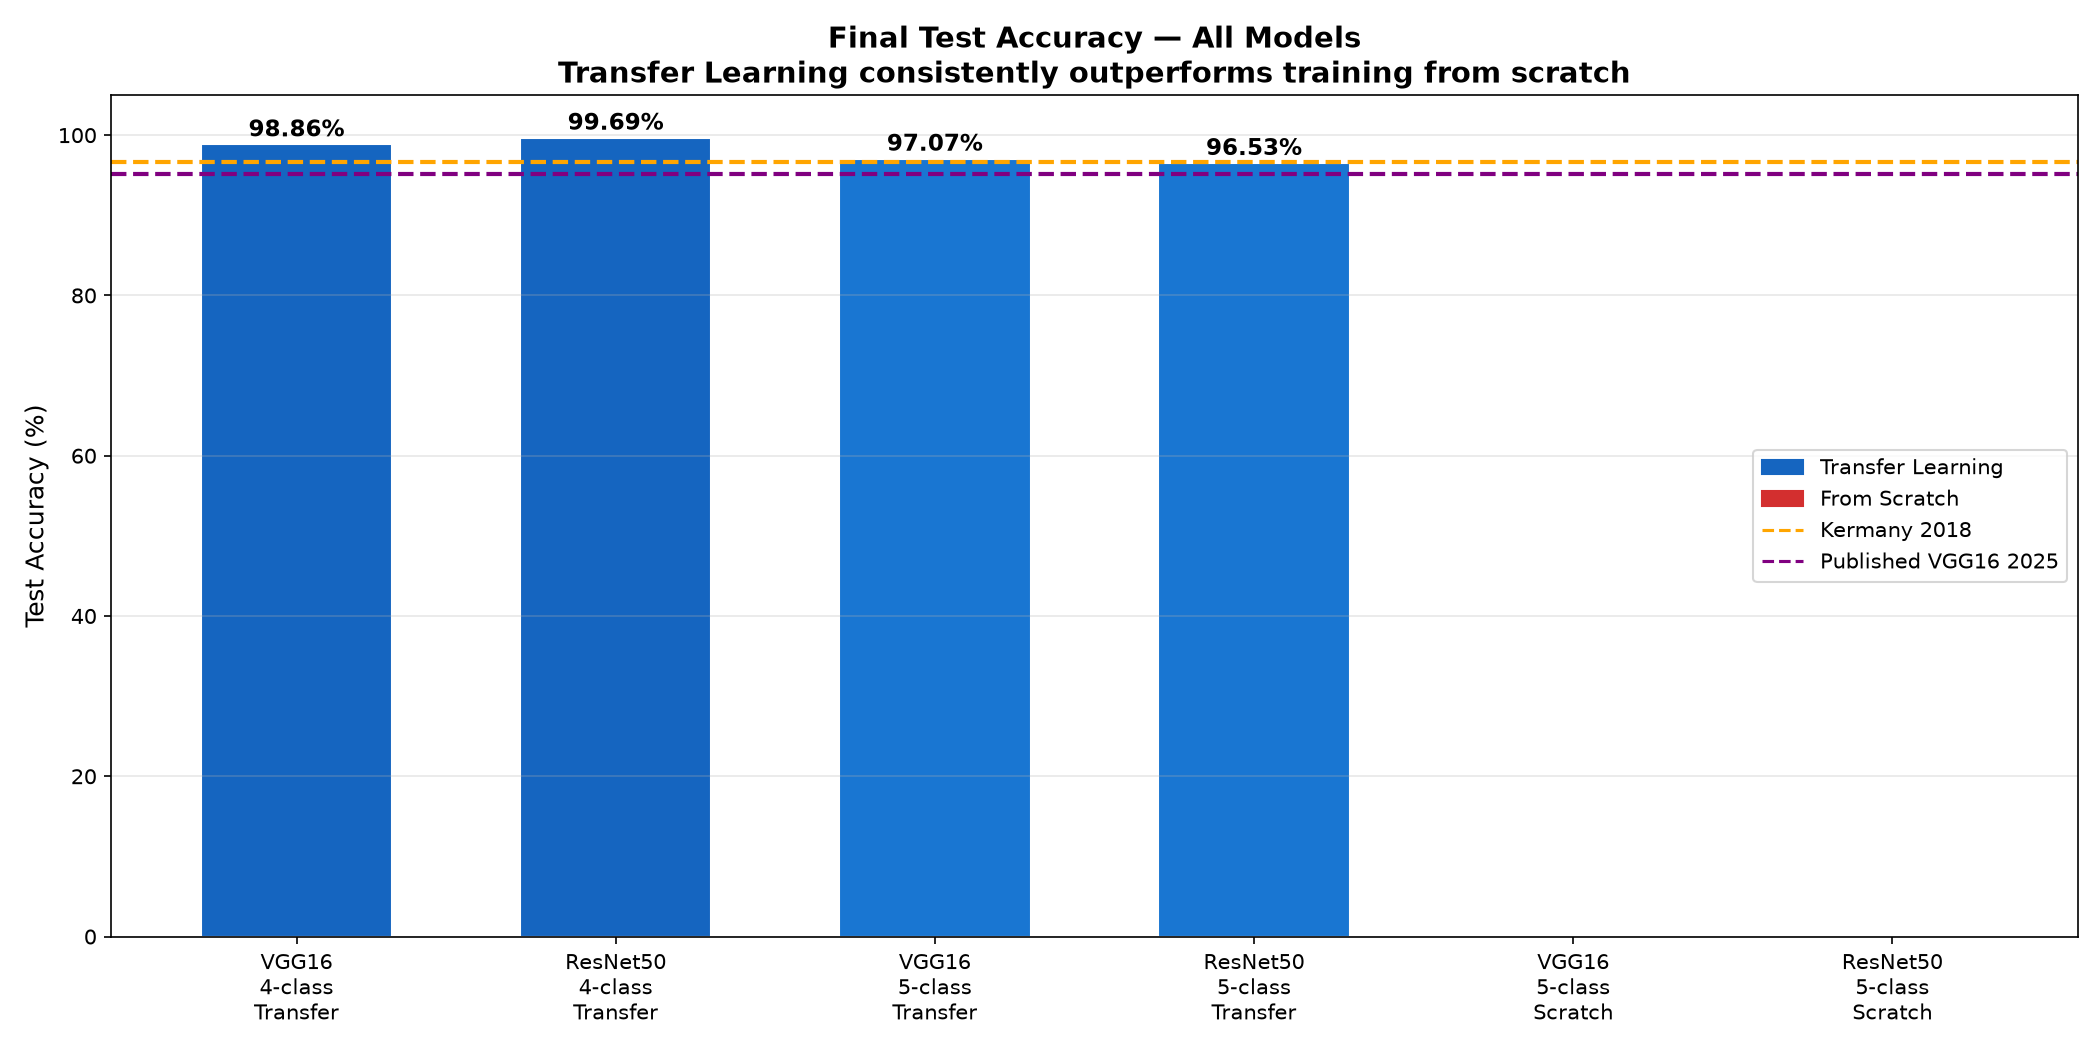
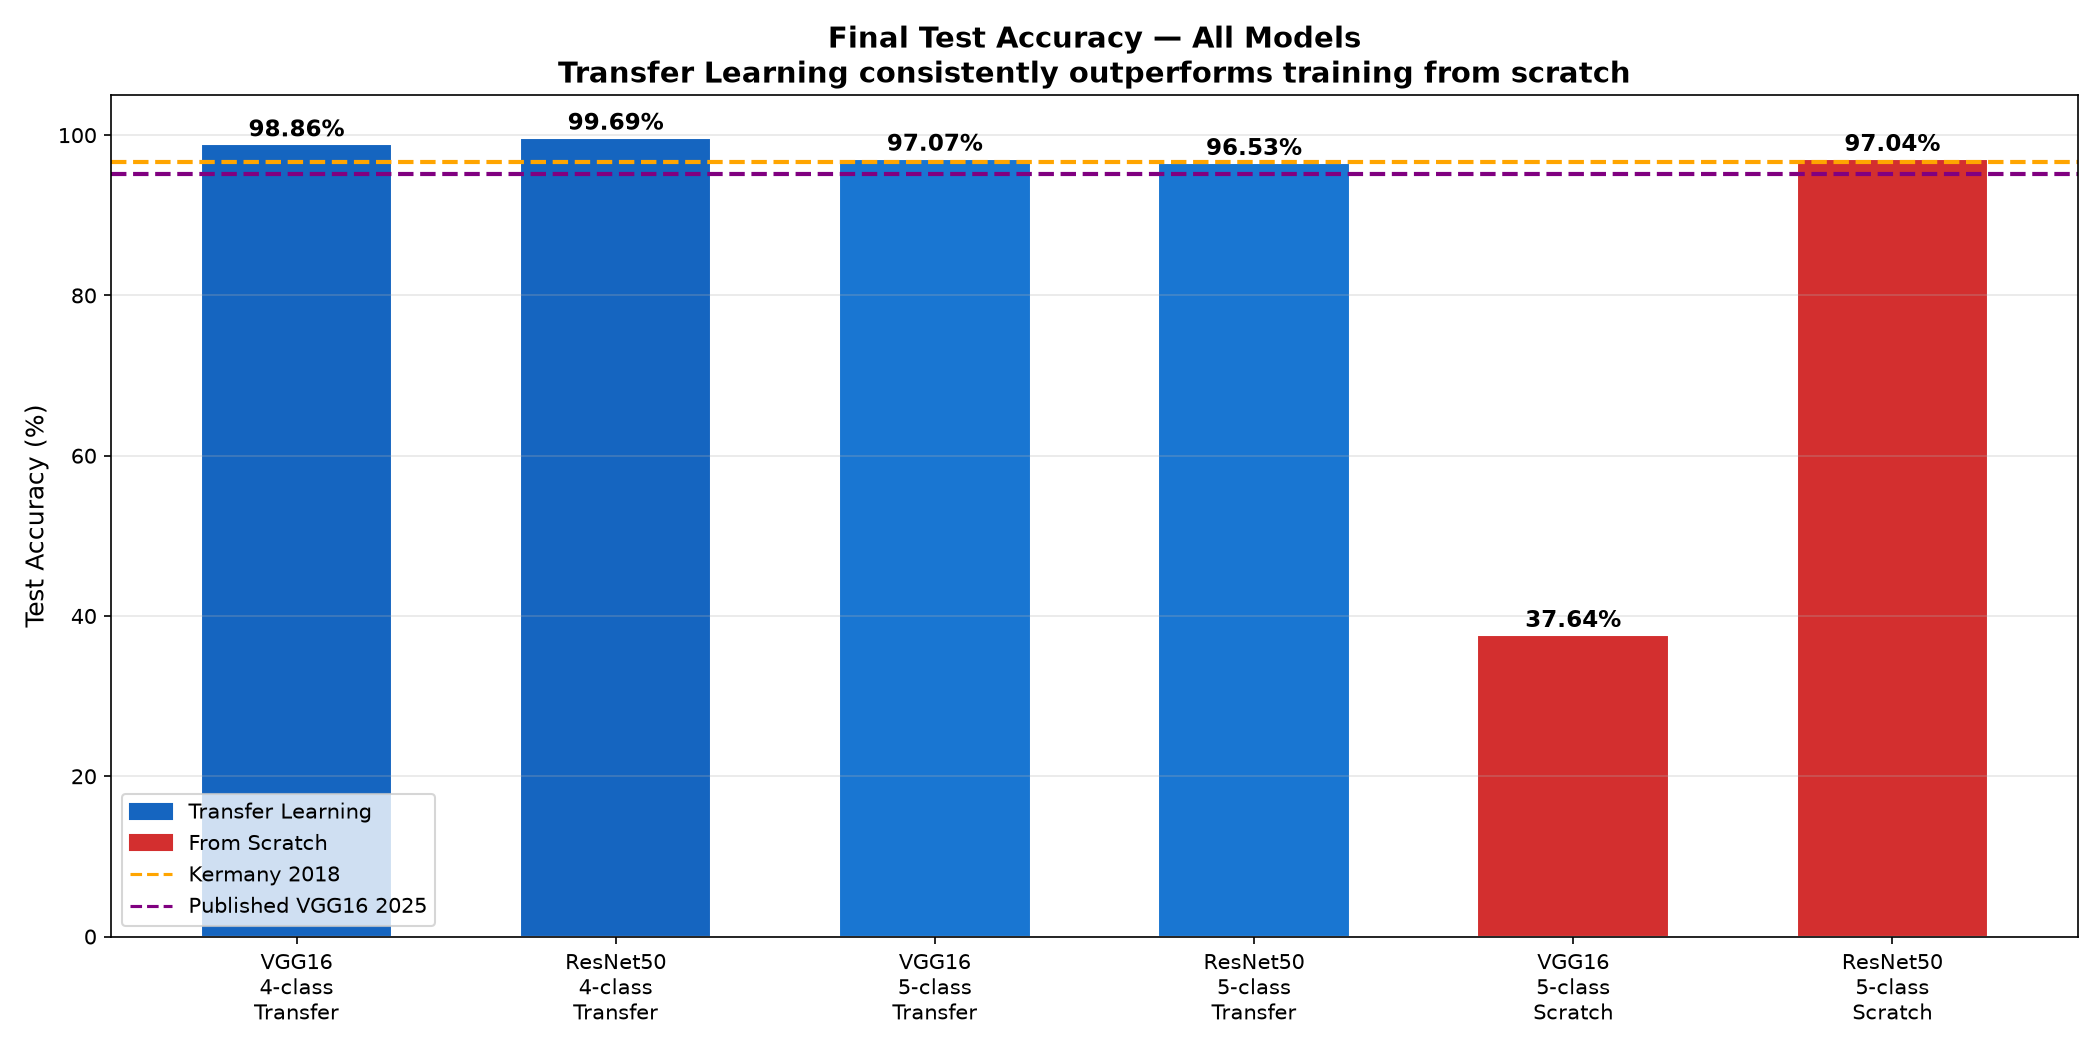
Add final scratch results

Changed region(s): [[0.8357, 0.1219, 0.9905, 0.9143], [0.681, 0.579, 0.8048, 0.9143], [0.0619, 0.7314, 0.2167, 0.8838]]

diff --git a/README.md b/README.md
@@ -36,11 +36,11 @@ across four experimental conditions:
 ### 5-class Models (OCT + NOT_OCT rejection)
 
 | Model | Test Accuracy | NOT_OCT Rejection | Notes |
-|-------|--------------|-------------------|-------|
-| **VGG16 Transfer Learning** | **97.07%** | **100%** | Block5 unfrozen |
-| **ResNet50 Transfer Learning** | **96.53%** | **100%** | Layer4 unfrozen |
-| VGG16 From Scratch | TBD | TBD | 20 epochs, no pretrained weights |
-| ResNet50 From Scratch | TBD | TBD | 20 epochs, no pretrained weights |
+|-------|---------------|-------------------|------|
+| **VGG16 Transfer Learning** | **97.07%**    | **100%**          | Block5 unfrozen |
+| **ResNet50 Transfer Learning** | **96.53%**    | **100%**          | Layer4 unfrozen |
+| VGG16 From Scratch | 37.64%        | 0%                | Class collapse — predicts CNV only |
+| ResNet50 From Scratch | 97.04%        | ~100%             | Skip connections enable learning |
 
 ### Per-Class Accuracy (5-class Transfer Learning)
 
@@ -107,8 +107,8 @@ across four experimental conditions:
 | 7 | ResNet50 layer4 unfrozen | ImageNet | 5 | 96.53% |
 | 8 | VGG16 4-class (clean run) | ImageNet | 4 | 98.86% |
 | 9 | ResNet50 4-class (clean run) | ImageNet | 4 | 99.69% |
-| 10 | VGG16 from scratch | None | 5 | TBD |
-| 11 | ResNet50 from scratch | None | 5 | TBD |
+| 10 | VGG16 from scratch   | None | 5 | 37.64% (class collapse)         |
+| 11 | ResNet50 from scratch | None | 5 | 97.04% (near transfer learning) |
 
 ---
 
